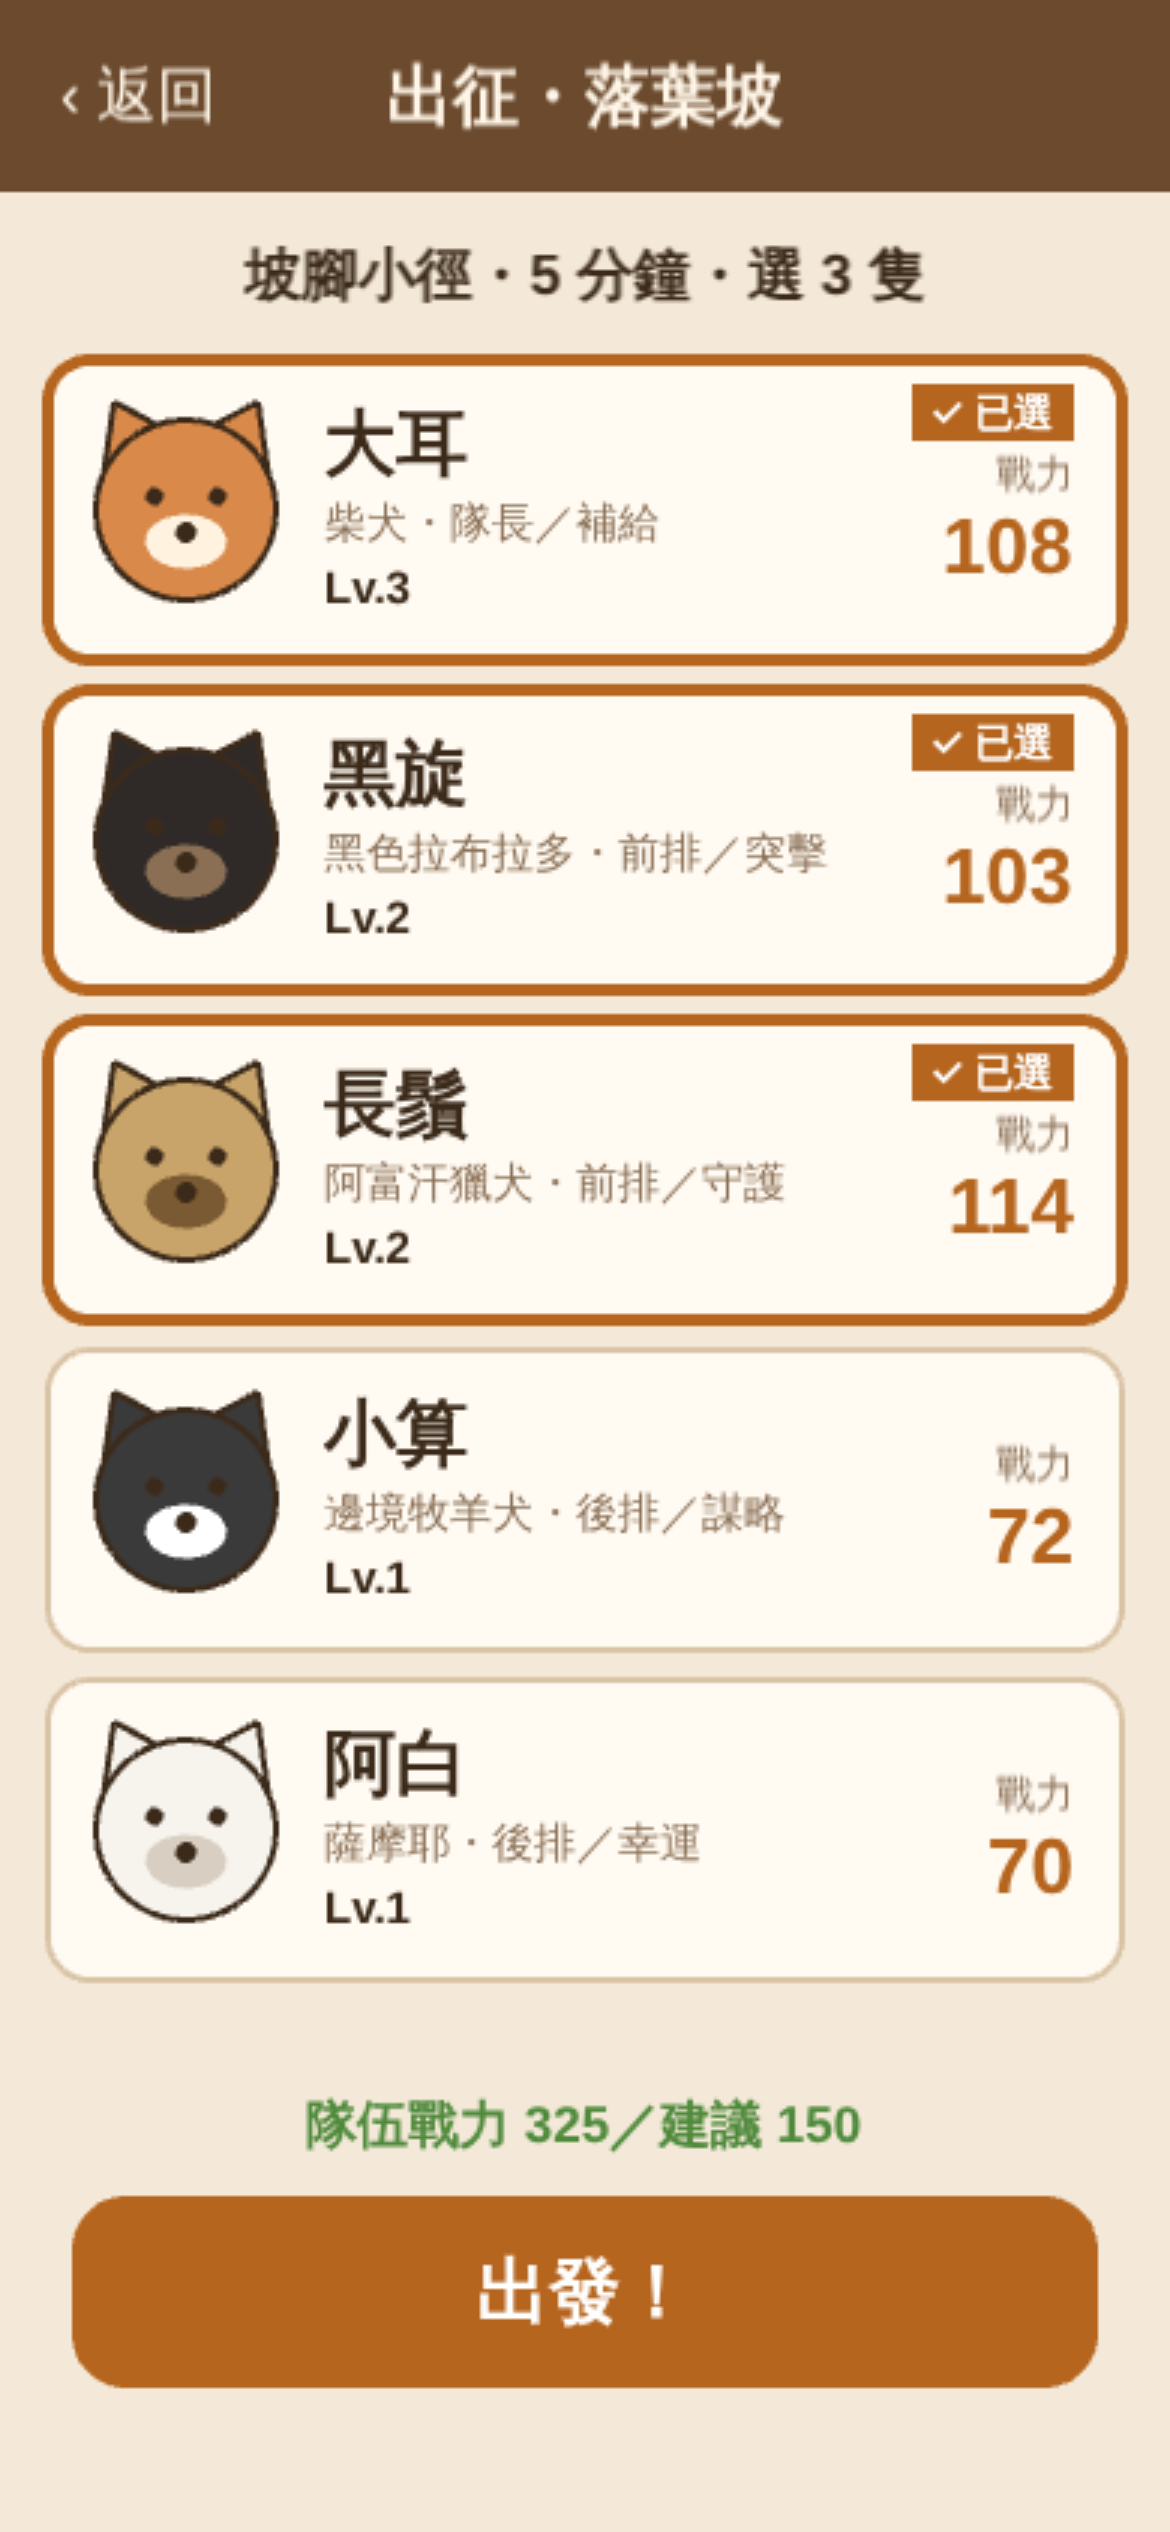
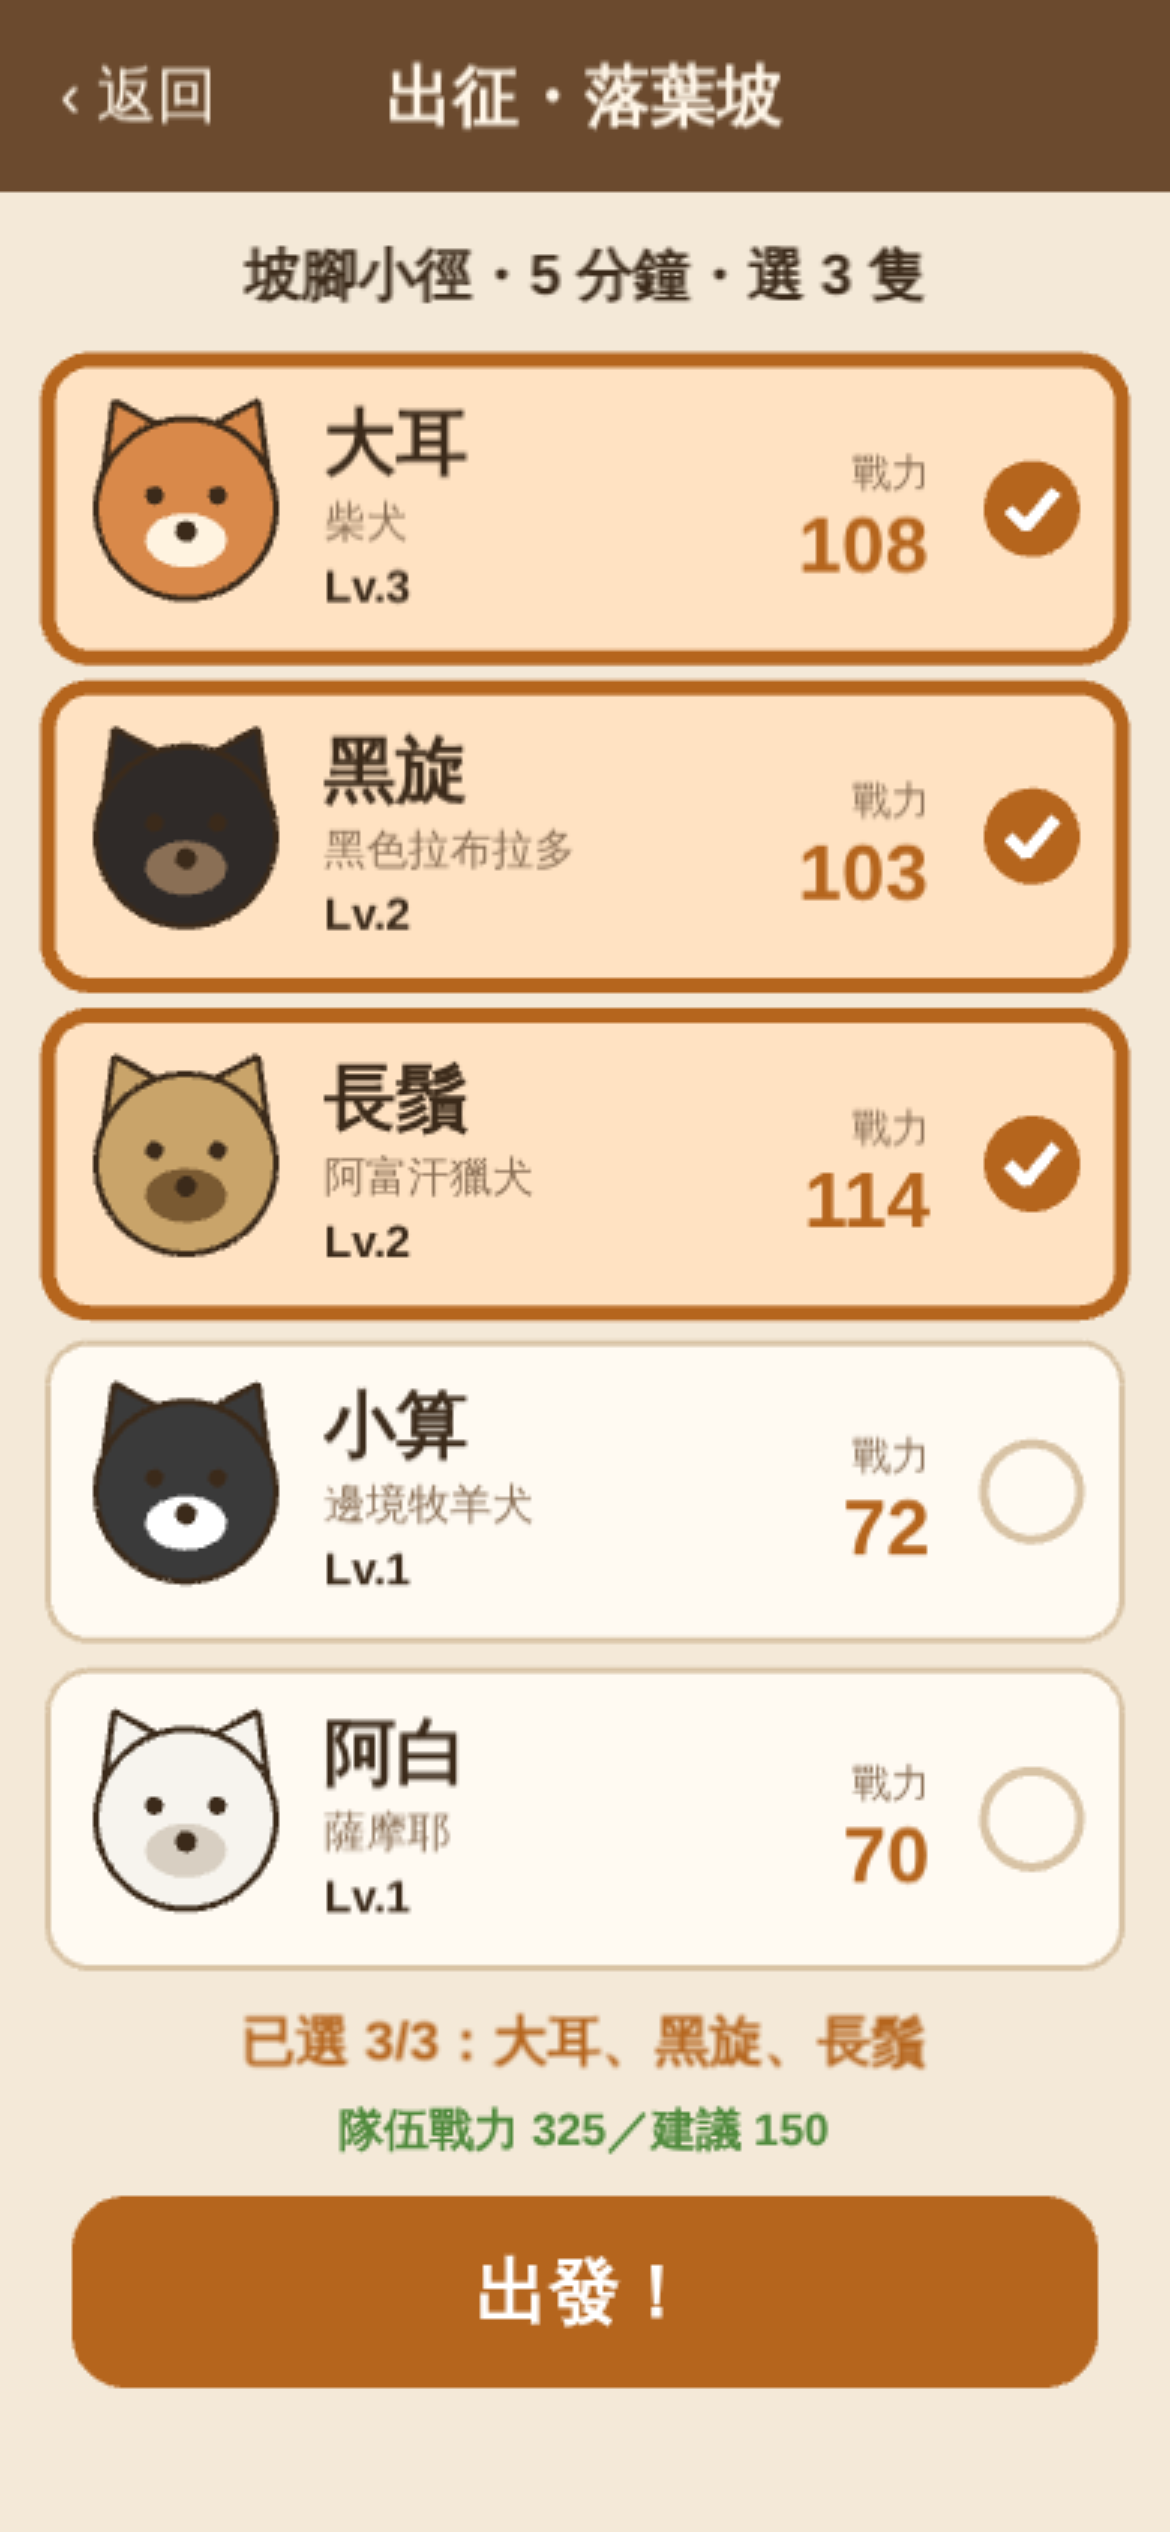
修正出征選狗：整張卡片都點得到，選到更明顯
- 修正點擊範圍：Phaser Container 判斷點擊會加上一半寬高的位移，
  原本狗卡、關卡卡片、按鈕都只有左上 1/4 點得到。改用 makeTapArea 統一處理。
- 選角畫面：選到的卡片變橘底、粗橘框、右側實心勾勾；沒選的顯示空心圈
- 下方列出「已選 n/3：名字」，副標只留犬種避免壓到戰力
- 新增 Playwright：點卡片與按鈕的角落也要選得到、取消得到

Claude-Session: https://claude.ai/code/session_018331HB7vyyQ1sRd3M1Ge68

diff --git a/src/scenes/components/DogCard.ts b/src/scenes/components/DogCard.ts
@@ -3,6 +3,7 @@ import { COLORS, FONT_FAMILY } from '../../config';
 import type { DogData } from '../../data/dogs';
 import type { Rect } from '../../logic/layout';
 import { calcPower } from '../../logic/power';
+import { makeTapArea } from './hitArea';
 
 /**
  * 角色卡片：幾何佔位頭像 + 名字、犬種、等級、戰力。
@@ -12,8 +13,15 @@ export class DogCard extends Phaser.GameObjects.Container {
   readonly dog: DogData;
   readonly power: number;
   readonly rect: Rect;
+  private readonly bg: Phaser.GameObjects.Graphics;
   private readonly frame: Phaser.GameObjects.Graphics;
   private readonly badge: Phaser.GameObjects.Text;
+  private readonly check: Phaser.GameObjects.Graphics;
+  private readonly powerLabel: Phaser.GameObjects.Text;
+  private readonly powerText: Phaser.GameObjects.Text;
+  private readonly sub: Phaser.GameObjects.Text;
+  /** 選角模式：右側顯示勾選圈，戰力往左移 */
+  private selectable = false;
 
   constructor(scene: Phaser.Scene, dog: DogData, rect: Rect, onSelect: (dog: DogData) => void) {
     super(scene, rect.x, rect.y);
@@ -24,8 +32,7 @@ export class DogCard extends Phaser.GameObjects.Container {
     const { width: w, height: h } = rect;
 
     const bg = scene.add.graphics();
-    bg.fillStyle(COLORS.card, 1);
-    bg.fillRoundedRect(0, 0, w, h, 14);
+    this.bg = bg;
     this.frame = scene.add.graphics();
 
     // 頭像：圓形頭 + 兩個三角耳，用顏色區分
@@ -64,11 +71,11 @@ export class DogCard extends Phaser.GameObjects.Container {
       color: COLORS.ink,
     });
     name.setOrigin(0, 0.5);
-    const sub = scene.add.text(tx, h / 2 + 4, `${dog.breed}・${dog.role}`, {
+    const sub = (this.sub = scene.add.text(tx, h / 2 + 4, `${dog.breed}・${dog.role}`, {
       fontFamily: FONT_FAMILY,
       fontSize: '14px',
       color: COLORS.inkSoft,
-    });
+    }));
     sub.setOrigin(0, 0.5);
     const lv = scene.add.text(tx, h / 2 + 26, `Lv.${dog.level}`, {
       fontFamily: FONT_FAMILY,
@@ -78,19 +85,20 @@ export class DogCard extends Phaser.GameObjects.Container {
     });
     lv.setOrigin(0, 0.5);
 
-    const powerLabel = scene.add.text(w - 16, h / 2 - 12, '戰力', {
+    const powerLabel = (this.powerLabel = scene.add.text(w - 16, h / 2 - 12, '戰力', {
       fontFamily: FONT_FAMILY,
       fontSize: '13px',
       color: COLORS.inkSoft,
-    });
+    }));
     powerLabel.setOrigin(1, 0.5);
-    const powerText = scene.add.text(w - 16, h / 2 + 12, String(this.power), {
+    const powerText = (this.powerText = scene.add.text(w - 16, h / 2 + 12, String(this.power), {
       fontFamily: FONT_FAMILY,
       fontSize: '26px',
       fontStyle: 'bold',
       color: '#b5651d',
-    });
+    }));
     powerText.setOrigin(1, 0.5);
+    this.check = scene.add.graphics();
 
     // 狀態標籤（出征中／已選），預設隱藏
     this.badge = scene.add.text(w - 16, 8, '', {
@@ -104,30 +112,64 @@ export class DogCard extends Phaser.GameObjects.Container {
     this.badge.setOrigin(1, 0);
     this.badge.setVisible(false);
 
-    this.add([bg, this.frame, head, name, sub, lv, powerLabel, powerText, this.badge]);
+    this.add([bg, this.frame, head, name, sub, lv, powerLabel, powerText, this.check, this.badge]);
     this.setStatus({});
-    this.setSize(w, h);
-    // Container 的 hitArea 以左上角為原點
-    this.setInteractive(new Phaser.Geom.Rectangle(0, 0, w, h), Phaser.Geom.Rectangle.Contains);
-    this.input!.cursor = 'pointer';
+    makeTapArea(this, w, h);
     this.on('pointerup', () => onSelect(dog));
 
     scene.add.existing(this);
   }
 
+  /** 開關選角模式：右側出現勾選圈，戰力往左讓位 */
+  setSelectable(selectable: boolean): this {
+    this.selectable = selectable;
+    const x = this.rect.width - (selectable ? 64 : 16);
+    this.powerLabel.setX(x);
+    this.powerText.setX(x);
+    // 選角模式寬度較窄，副標只留犬種，避免壓到戰力
+    this.sub.setText(selectable ? this.dog.breed : `${this.dog.breed}・${this.dog.role}`);
+    return this;
+  }
+
   /**
-   * 顯示狀態：出征中（變淡 + 標籤）、已選（粗框 + 標籤）。
+   * 顯示狀態：
+   * - 出征中：變淡 + 「出征中」標籤
+   * - 已選：底色變橘、粗橘框、右側實心勾勾（選角模式）或「✓ 已選」標籤
    * 只改外觀，不擋點擊；能不能選由呼叫端依 src/logic/ 判斷。
    */
   setStatus({ busy = false, selected = false }: { busy?: boolean; selected?: boolean }): this {
     const { width: w, height: h } = this.rect;
+    this.bg.clear();
+    this.bg.fillStyle(selected ? COLORS.cardSelected : COLORS.card, 1);
+    this.bg.fillRoundedRect(0, 0, w, h, 14);
     this.frame.clear();
-    this.frame.lineStyle(selected ? 4 : 2, selected ? COLORS.button : COLORS.cardBorder, 1);
+    this.frame.lineStyle(selected ? 5 : 2, selected ? COLORS.button : COLORS.cardBorder, 1);
     this.frame.strokeRoundedRect(0, 0, w, h, 14);
     this.setAlpha(busy ? 0.5 : 1);
+
+    this.check.clear();
+    if (this.selectable && !busy) {
+      const cx = w - 30;
+      const cy = h / 2;
+      const r = 16;
+      if (selected) {
+        this.check.fillStyle(COLORS.button, 1);
+        this.check.fillCircle(cx, cy, r);
+        this.check.lineStyle(4, 0xffffff, 1);
+        this.check.beginPath();
+        this.check.moveTo(cx - 8, cy);
+        this.check.lineTo(cx - 2, cy + 6);
+        this.check.lineTo(cx + 8, cy - 6);
+        this.check.strokePath();
+      } else {
+        this.check.lineStyle(3, COLORS.cardBorder, 1);
+        this.check.strokeCircle(cx, cy, r);
+      }
+    }
+
     if (busy) {
       this.badge.setText('出征中').setBackgroundColor('#8a6f55').setVisible(true);
-    } else if (selected) {
+    } else if (selected && !this.selectable) {
       this.badge.setText('✓ 已選').setBackgroundColor('#b5651d').setVisible(true);
     } else {
       this.badge.setVisible(false);

diff --git a/src/scenes/ExpeditionScene.ts b/src/scenes/ExpeditionScene.ts
@@ -11,6 +11,7 @@ import { minuteMsFromSearch } from '../logic/timeScale';
 import { getState, setState } from '../state/store';
 import { Button } from './components/Button';
 import { DogCard } from './components/DogCard';
+import { makeTapArea } from './components/hitArea';
 
 const BAR_HEIGHT = 64;
 const BACK: Rect = { x: 8, y: 8, width: 96, height: 48 };
@@ -152,12 +153,7 @@ export class ExpeditionScene extends Phaser.Scene {
       ),
       this.text(18, 86, `獎勵 ${rewardText(stage.reward)}`, 17, COLORS.ink),
     ]);
-    c.setSize(r.width, r.height);
-    c.setInteractive(
-      new Phaser.Geom.Rectangle(0, 0, r.width, r.height),
-      Phaser.Geom.Rectangle.Contains,
-    );
-    c.input!.cursor = 'pointer';
+    makeTapArea(c, r.width, r.height);
     c.on('pointerup', () => {
       this.stage = stage;
       this.step = 'team';
@@ -186,12 +182,13 @@ export class ExpeditionScene extends Phaser.Scene {
 
     const listTop = BAR_HEIGHT + 56;
     const rects = layoutList(DOGS.length, {
-      area: { x: 16, y: listTop, width: GAME_WIDTH - 32, height: CONFIRM.y - 48 - listTop },
+      area: { x: 16, y: listTop, width: GAME_WIDTH - 32, height: CONFIRM.y - 76 - listTop },
       gap: 10,
       maxCardHeight: 100,
     });
     const cards = DOGS.map((dog, i) => {
       const card = new DogCard(this, dog, rects[i], () => this.toggleDog(dog.id));
+      card.setSelectable(true);
       card.setStatus({ busy: busy.has(dog.id), selected: this.selected.includes(dog.id) });
       this.layer.add(card);
       return card;
@@ -201,12 +198,25 @@ export class ExpeditionScene extends Phaser.Scene {
       const d = DOGS.find((x) => x.id === id)!;
       return sum + calcPower(d.baseAttack, d.baseDefense, d.level);
     }, 0);
+    const names = this.selected.map((id) => DOGS.find((d) => d.id === id)!.name);
     this.layer.add(
       this.text(
         GAME_WIDTH / 2,
-        CONFIRM.y - 24,
+        CONFIRM.y - 52,
+        names.length
+          ? `已選 ${names.length}/${TEAM_SIZE}：${names.join('、')}`
+          : `點卡片選 ${TEAM_SIZE} 隻，再點一次取消`,
+        18,
+        names.length ? '#b5651d' : COLORS.inkSoft,
+        true,
+      ).setOrigin(0.5),
+    );
+    this.layer.add(
+      this.text(
+        GAME_WIDTH / 2,
+        CONFIRM.y - 22,
         `隊伍戰力 ${teamPower}／建議 ${stage.recommendedPower}`,
-        17,
+        15,
         teamPower >= stage.recommendedPower ? '#4f8a3c' : COLORS.inkSoft,
         true,
       ).setOrigin(0.5),

diff --git a/tests/e2e/expedition.spec.ts b/tests/e2e/expedition.spec.ts
@@ -103,3 +103,47 @@ test('出征面板可返回主畫面', async ({ page }) => {
   await tap(page, s.backButton!);
   await page.waitForFunction(() => window.__WGZ__?.scene === 'MainScene');
 });
+
+test('卡片與按鈕整塊都點得到（四個角落）', async ({ page }) => {
+  await page.goto('/');
+  await page.waitForFunction(() => window.__WGZ__?.scene === 'MainScene');
+
+  // 出征按鈕右下角
+  const btn = (await wgz(page)).expeditionButton!;
+  await tap(page, { x: btn.x + btn.width - 30, y: btn.y + btn.height - 14, width: 0, height: 0 });
+  await page.waitForFunction(() => window.__WGZ__?.expeditionPanel?.step === 'stage');
+
+  // 關卡卡片右下角
+  const stage = (await wgz(page)).expeditionPanel!.stages[0];
+  await tap(page, {
+    x: stage.x + stage.width - 20,
+    y: stage.y + stage.height - 12,
+    width: 0,
+    height: 0,
+  });
+  await page.waitForFunction(() => window.__WGZ__?.expeditionPanel?.step === 'team');
+
+  // 前 3 張狗卡分別點不同角落：選到 → 再點取消 → 再點選回來
+  const cards = (await wgz(page)).expeditionPanel!.teamCards;
+  const spots: [number, number][] = [
+    [0.9, 0.85],
+    [0.1, 0.85],
+    [0.9, 0.15],
+  ];
+  const selected = (id: string) =>
+    page.evaluate(
+      (id) => window.__WGZ__?.expeditionPanel?.teamCards.find((x) => x.id === id)?.selected,
+      id,
+    );
+  for (const [i, [fx, fy]] of spots.entries()) {
+    const c = cards[i];
+    const p = { x: c.x + c.width * fx, y: c.y + c.height * fy, width: 0, height: 0 };
+    await tap(page, p);
+    expect(await selected(c.id), `第 ${i + 1} 張點 (${fx}, ${fy})`).toBe(true);
+    await tap(page, p);
+    expect(await selected(c.id)).toBe(false);
+    await tap(page, p);
+    expect(await selected(c.id)).toBe(true);
+  }
+  expect((await wgz(page)).expeditionPanel!.confirmButton!.enabled).toBe(true);
+});

diff --git a/src/scenes/components/Button.ts b/src/scenes/components/Button.ts
@@ -1,6 +1,7 @@
 import Phaser from 'phaser';
 import { COLORS, FONT_FAMILY } from '../../config';
 import type { Rect } from '../../logic/layout';
+import { makeTapArea } from './hitArea';
 
 /**
  * 圓角大按鈕（手機單手好按）。可改文字、啟用／停用、顏色。
@@ -26,11 +27,7 @@ export class Button extends Phaser.GameObjects.Container {
       })
       .setOrigin(0.5);
     this.add([this.bg, this.label]);
-    this.setSize(rect.width, rect.height);
-    this.setInteractive(
-      new Phaser.Geom.Rectangle(0, 0, rect.width, rect.height),
-      Phaser.Geom.Rectangle.Contains,
-    );
+    makeTapArea(this, rect.width, rect.height);
     this.on('pointerup', () => {
       if (this.enabled) onTap();
     });

diff --git a/src/scenes/components/hitArea.ts b/src/scenes/components/hitArea.ts
@@ -1,0 +1,17 @@
+import Phaser from 'phaser';
+
+/**
+ * 讓 Container 整塊 (0,0)–(w,h) 都可點。
+ *
+ * Phaser 判斷 Container 的點擊時，會把座標加上 displayOrigin（寬高的一半），
+ * 所以直接用 Rectangle(0, 0, w, h) 只有左上 1/4 點得到。
+ * 這裡把點擊範圍往右下移半個寬高，抵銷這個位移。
+ */
+export function makeTapArea(container: Phaser.GameObjects.Container, w: number, h: number): void {
+  container.setSize(w, h);
+  container.setInteractive(
+    new Phaser.Geom.Rectangle(w / 2, h / 2, w, h),
+    Phaser.Geom.Rectangle.Contains,
+  );
+  container.input!.cursor = 'pointer';
+}

diff --git a/src/config.ts b/src/config.ts
@@ -11,6 +11,8 @@ export const COLORS = {
   inkHex: 0x3b2a1a,
   card: 0xfffaf2,
   cardBorder: 0xd8c3a5,
+  /** 出征選角時被選中的卡片底色 */
+  cardSelected: 0xffe2c2,
   bar: 0x6b4a2e,
   barText: '#fff6e8',
   button: 0xb5651d,
